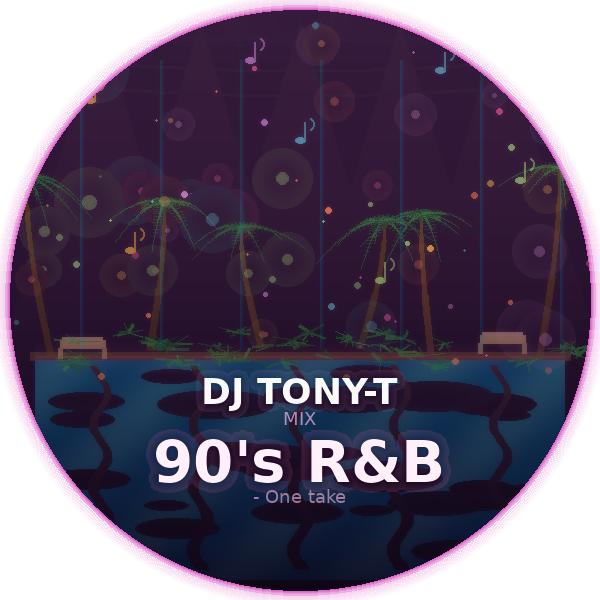
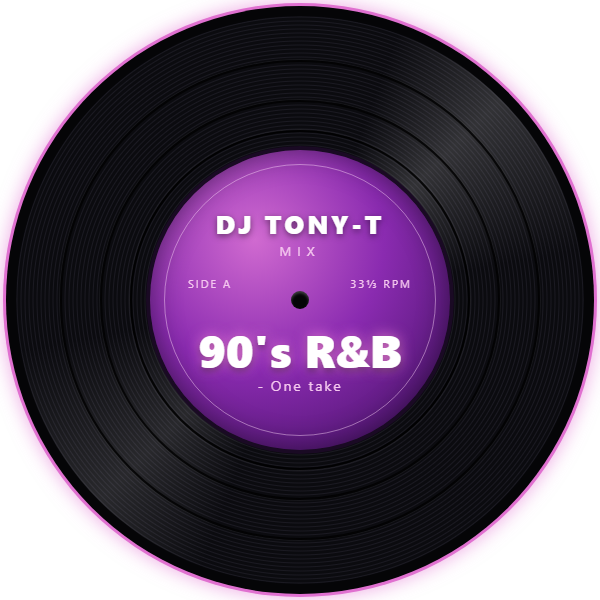
黒基調に戻し、About写真とMUSICのアートワークを差し替え
- 背景を白基調から元の黒基調に戻す（フォーム送信機能などはそのまま）
- Aboutの丸アイコンをDJ Tony-Tのプレイ写真（縦長フレーム）に差し替え
- 90's R&Bのアートワークをアナログレコード風に作り直す
- DJ PLAY R&Bにミラーボール写真のアートワークを追加（クリックで拡大）
- 狭い画面でもプレーヤーのアートワークを正方形で全体表示する

diff --git a/index.html b/index.html
@@ -16,14 +16,13 @@
     --neon-purple: #b44aff;
     --neon-blue: #00d4ff;
     --neon-pink: #ff2d95;
-    /* 白背景で文字に使う読みやすい差し色（深いティール） */
-    --accent-ink: #0e7490;
-    /* 変数名はダーク時代のままだが、白基調に振り直している */
-    --dark-bg: #f4f5fb;      /* ページのベース色（ほぼ白） */
-    --dark-card: #ffffff;    /* カードは純白 */
-    --dark-card2: #eef0f7;   /* うっすらグレーのサブ面 */
-    --text: #17172b;         /* 本文（濃紺グレー） */
-    --text-dim: #5f6178;     /* サブ文字 */
+    /* 文字に使う差し色（黒基調ではネオンブルー） */
+    --accent-ink: #00d4ff;
+    --dark-bg: #0a0a14;
+    --dark-card: #12121e;
+    --dark-card2: #1a1a2e;
+    --text: #e0e0f0;
+    --text-dim: #8888aa;
   }
 
   html { scroll-behavior: smooth; scroll-padding-top: 0px; }
@@ -34,18 +33,6 @@
     color: var(--text);
     overflow-x: hidden;
     line-height: 1.6;
-  }
-  /* 背景専用の固定レイヤー（background-attachment:fixed の代わり。描画が軽い） */
-  body::before {
-    content: '';
-    position: fixed;
-    inset: 0;
-    z-index: -1;
-    pointer-events: none;
-    background:
-      radial-gradient(ellipse 80% 60% at 15% 0%, rgba(180,74,255,0.10) 0%, transparent 55%),
-      radial-gradient(ellipse 80% 60% at 95% 8%, rgba(0,212,255,0.08) 0%, transparent 55%),
-      linear-gradient(180deg, #ffffff 0%, #eef0f8 100%);
   }
 
   /* ===== PARTICLE CANVAS ===== */
@@ -66,12 +53,12 @@
     justify-content: space-between;
     align-items: center;
     padding: 1rem 3rem;
-    background: rgba(255,255,255,0.72);
+    background: rgba(10,10,20,0.85);
     backdrop-filter: blur(20px);
     border-bottom: 1px solid rgba(180,74,255,0.15);
     transition: all 0.3s;
   }
-  nav.scrolled { background: rgba(255,255,255,0.92); box-shadow: 0 4px 24px rgba(80,60,140,0.08); }
+  nav.scrolled { background: rgba(10,10,20,0.95); }
   .nav-logo {
     font-family: 'Orbitron', sans-serif;
     font-size: 1.5rem;
@@ -209,10 +196,10 @@
     font-weight: 900;
     line-height: 1;
     margin-bottom: 1.5rem;
-    background: linear-gradient(135deg, #17172b 0%, var(--neon-purple) 55%, var(--neon-blue) 100%);
+    background: linear-gradient(135deg, #fff 0%, var(--neon-purple) 50%, var(--neon-blue) 100%);
     -webkit-background-clip: text;
     -webkit-text-fill-color: transparent;
-    filter: drop-shadow(0 8px 24px rgba(180,74,255,0.25));
+    filter: drop-shadow(0 0 40px rgba(180,74,255,0.3));
     opacity: 0;
     animation: fadeInUp 1s 0.5s forwards;
   }
@@ -360,8 +347,8 @@
     align-items: center;
   }
   .about-circle {
-    width: 300px; height: 300px;
-    border-radius: 50%;
+    width: 300px; height: 533px; /* 写真(9:16)全体を見せる縦長フレーム */
+    border-radius: 24px;
     background: linear-gradient(135deg, rgba(180,74,255,0.15), rgba(0,212,255,0.1));
     border: 2px solid rgba(180,74,255,0.3);
     display: flex;
@@ -385,7 +372,7 @@
     width: 100%;
     height: 100%;
     object-fit: cover;
-    border-radius: 50%;
+    border-radius: inherit;
   }
   .about-circle-inner {
     position: relative;
@@ -508,7 +495,7 @@
   .original-vinyl {
     position: absolute;
     width: 60px; height: 60px;
-    border: 2px solid rgba(23,23,43,0.14);
+    border: 2px solid rgba(255,255,255,0.08);
     border-radius: 50%;
     animation: spin 3s linear infinite paused;
   }
@@ -568,7 +555,7 @@
   .original-progress-wrap {
     flex: 1;
     height: 6px;
-    background: rgba(23,23,43,0.08);
+    background: rgba(255,255,255,0.1);
     border-radius: 3px;
     cursor: pointer;
     overflow: hidden;
@@ -693,6 +680,8 @@
     animation: spin 3s linear infinite paused;
   }
   .player-artwork.playing .vinyl-spin { animation-play-state: running; }
+  /* 丸いアートワークは四隅に枠の背景色を出さない */
+  #playerArtwork2, #playerArtwork3 { background: transparent; }
   .player-info h3 {
     font-family: 'Orbitron', sans-serif;
     font-size: 1.4rem;
@@ -778,7 +767,7 @@
   }
   @media (max-width: 700px) {
     .player-layout { grid-template-columns: 1fr; }
-    .player-artwork { width: 100%; height: 80px; border-radius: 10px; }
+    .player-artwork { width: 200px; height: 200px; margin: 0 auto; } /* 狭い画面でも正方形のままアートワーク全体を見せる */
     .volume-control { display: none; }
   }
 
@@ -827,7 +816,7 @@
   .event-flyer { text-align: center; margin-bottom: 2.5rem; }
   .event-flyer img {
     width: 100%; max-width: 440px; border-radius: 14px; cursor: pointer; display: block; margin: 0 auto;
-    box-shadow: 0 10px 40px rgba(23,23,43,0.18); transition: transform 0.3s ease, box-shadow 0.3s ease;
+    box-shadow: 0 10px 40px rgba(0,0,0,0.5); transition: transform 0.3s ease, box-shadow 0.3s ease;
   }
   .event-flyer img:hover { transform: translateY(-4px); box-shadow: 0 16px 50px rgba(180,74,255,0.28); }
   .event-flyer-cap { margin-top: 1rem; }
@@ -1006,7 +995,7 @@
       position: fixed; top: 0; right: -100%;
       width: 70%; height: 100vh;
       flex-direction: column;
-      background: rgba(255,255,255,0.98);
+      background: rgba(10,10,20,0.98);
       padding: 5rem 2rem; transition: right 0.3s;
       border-left: 1px solid rgba(180,74,255,0.2);
     }
@@ -1021,7 +1010,7 @@
   }
   @media (max-width: 600px) {
     section { padding: 4rem 1.2rem; }
-    .about-circle { width: 200px; height: 200px; }
+    .about-circle { width: 220px; height: 391px; }
     .about-circle-inner { font-size: 2.5rem; }
     .about-stats { grid-template-columns: 1fr; }
     .gallery-grid { grid-template-columns: repeat(2, 1fr); gap: 0.8rem; }
@@ -1031,12 +1020,6 @@
   ::-webkit-scrollbar-track { background: var(--dark-bg); }
   ::-webkit-scrollbar-thumb { background: linear-gradient(var(--neon-purple), var(--neon-blue)); border-radius: 3px; }
 
-  /* 白基調用: 白カードを背景から浮かせるソフトシャドウ（hover時は各要素の紫グローが上書き） */
-  .stat-item, .playlist-card, .original-card, .mix-card, .featured-player,
-  .event-card, .filter-btn, .social-link, .gallery-item,
-  .form-group input, .form-group textarea {
-    box-shadow: 0 6px 24px rgba(80,60,140,0.07);
-  }
 </style>
 </head>
 <body>
@@ -1492,7 +1475,7 @@
     <div class="about-grid">
       <div class="about-visual reveal">
         <div class="about-circle">
-          <img src="images/about-artwork.png" alt="DJ TONY-T" class="about-profile-img">
+          <img src="images/tony-t-profile.jpg" alt="DJ TONY-T" class="about-profile-img">
         </div>
       </div>
       <div class="about-text reveal">
@@ -1595,7 +1578,8 @@
     <div class="featured-player reveal" id="playlist-play-rnb-mix" style="margin-top:2rem;">
       <div class="featured-label">&#9654; Now Playing</div>
       <div class="player-layout">
-        <div class="player-artwork" id="playerArtwork3">
+        <div class="player-artwork" id="playerArtwork3" style="cursor:pointer" onclick="openArtwork3()">
+          <img src="images/play-rnb-artwork.png" alt="DJ PLAY R&B Artwork">
           <div class="vinyl-spin"></div>
         </div>
         <div class="player-info">
@@ -2156,6 +2140,13 @@ function openArtwork2() {
   const lb = document.getElementById('lightbox');
   const lbImg = document.getElementById('lightboxImg');
   lbImg.src = 'images/90srnb-artwork.png';
+  lb.classList.add('active');
+}
+
+// Artwork lightbox for DJ PLAY R&B
+function openArtwork3() {
+  const lb = document.getElementById('lightbox');
+  document.getElementById('lightboxImg').src = 'images/play-rnb-artwork.png';
   lb.classList.add('active');
 }
 
